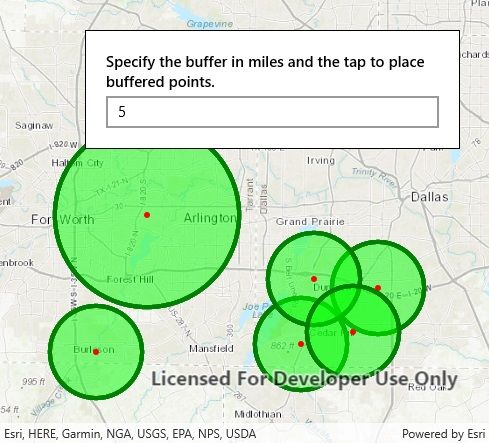
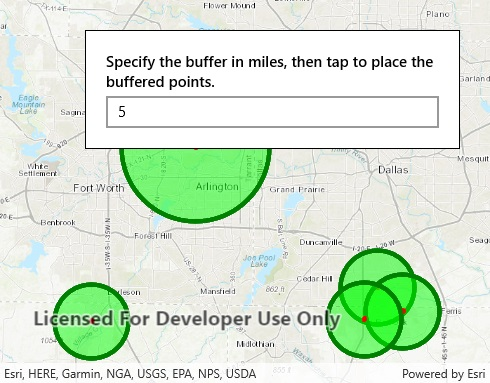
Changes per review

diff --git a/src/UWP/ArcGISRuntime.UWP.Viewer/Samples/GeometryEngine/Buffer/Buffer.xaml b/src/UWP/ArcGISRuntime.UWP.Viewer/Samples/GeometryEngine/Buffer/Buffer.xaml
@@ -9,16 +9,17 @@
                 HorizontalAlignment="Right" VerticalAlignment="Top"
                 Margin="30" Padding="20" Width="375">
             <Grid>
-                <Grid.ColumnDefinitions>
-                    <ColumnDefinition Width="*" />
-                    <ColumnDefinition Width="*" />
-                </Grid.ColumnDefinitions>
-                <TextBlock Text="Specify the buffer in miles and the tap on the map:"
-                           Grid.Column="0" />
+                <Grid.RowDefinitions>
+                    <RowDefinition Height="Auto" />
+                    <RowDefinition Height="Auto" />
+                </Grid.RowDefinitions>
+                <TextBlock Text="Specify the buffer in miles, then tap to place the buffered points."
+                           TextWrapping="Wrap" FontWeight="SemiBold"
+                           Grid.Row="0" />
                 <TextBox x:Name="BufferDistanceMilesTextBox"
-                         Grid.Column="1"
+                         Grid.Row="1"
                          HorizontalAlignment="Stretch" HorizontalTextAlignment="Center"
-                         Margin="5,0,0,0"
+                         Margin="0,5,0,0"
                          Text="10" />
             </Grid>
         </Border>

diff --git a/src/UWP/ArcGISRuntime.UWP.Viewer/Samples/Map/AccessLoadStatus/AccessLoadStatus.xaml b/src/UWP/ArcGISRuntime.UWP.Viewer/Samples/Map/AccessLoadStatus/AccessLoadStatus.xaml
@@ -2,18 +2,13 @@
     x:Class="ArcGISRuntime.UWP.Samples.AccessLoadStatus.AccessLoadStatus"
     xmlns="http://schemas.microsoft.com/winfx/2006/xaml/presentation"
     xmlns:x="http://schemas.microsoft.com/winfx/2006/xaml"
-    xmlns:d="http://schemas.microsoft.com/expression/blend/2008"
-    xmlns:mc="http://schemas.openxmlformats.org/markup-compatibility/2006"
-    xmlns:esriUI="using:Esri.ArcGISRuntime.UI.Controls"
-    mc:Ignorable="d"
-    d:DesignHeight="300"
-    d:DesignWidth="400">
+    xmlns:esriUI="using:Esri.ArcGISRuntime.UI.Controls">
     <Grid>
-        <esriUI:MapView x:Name="myMapView" />
+        <esriUI:MapView x:Name="MyMapView" />
         <Border BorderBrush="Black" BorderThickness="1" Background="White"
                 VerticalAlignment="Top" HorizontalAlignment="Right"
                 Margin="30" Padding="20" Width="300">
-            <TextBlock x:Name="loadStatusTextBlock"
+            <TextBlock x:Name="LoadStatusTextBlock"
                        Text="Map's load status : "
                        TextAlignment="Center" FontWeight="SemiBold" />
         </Border>

diff --git a/src/UWP/ArcGISRuntime.UWP.Viewer/Samples/MapView/DisplayDrawingStatus/DisplayDrawingStatus.xaml b/src/UWP/ArcGISRuntime.UWP.Viewer/Samples/MapView/DisplayDrawingStatus/DisplayDrawingStatus.xaml
@@ -13,11 +13,12 @@
         <Border BorderBrush="Black" BorderThickness="1" Background="White"
                 VerticalAlignment="Top" HorizontalAlignment="Right"
                 Margin="30" Padding="20" Width="300">
-            <StackPanel>
+            <StackPanel Orientation="Horizontal" HorizontalAlignment="Center">
                 <TextBlock x:Name="StatusDisplay"
-                           TextAlignment="Center" FontWeight="SemiBold" />
+                           FontWeight="SemiBold" />
                 <ProgressRing x:Name="ActivityIndicator"
-                              VerticalAlignment="Bottom" HorizontalAlignment="Center"
+                              HorizontalAlignment="Center"
+                              Margin="10,0,0,0"
                               IsActive="True" />
             </StackPanel>
 

diff --git a/src/UWP/ArcGISRuntime.UWP.Viewer/Samples/Data/FeatureLayerQuery/FeatureLayerQuery.xaml b/src/UWP/ArcGISRuntime.UWP.Viewer/Samples/Data/FeatureLayerQuery/FeatureLayerQuery.xaml
@@ -9,11 +9,10 @@
                 HorizontalAlignment="Right" VerticalAlignment="Top"
                 Margin="30" Padding="20" Width="375">
             <StackPanel>
-                <TextBlock Text="Enter a state name to search."
+                <TextBlock Text="Enter a state name and press 'Enter' to search."
                            TextAlignment="Center" FontWeight="SemiBold"
                            Margin="0,0,0,5" />
-                <AutoSuggestBox x:Name="QueryEntry"
-                                Text="New York"
+                <AutoSuggestBox Text="New York"
                                 QueryIcon="Find"
                                 HorizontalAlignment="Stretch"
                                 QuerySubmitted="QueryEntry_QuerySubmitted" />

diff --git a/src/UWP/ArcGISRuntime.UWP.Viewer/Samples/Location/DisplayDeviceLocation/DisplayDeviceLocation.xaml b/src/UWP/ArcGISRuntime.UWP.Viewer/Samples/Location/DisplayDeviceLocation/DisplayDeviceLocation.xaml
@@ -26,7 +26,7 @@
                            Grid.Row="0" Grid.Column="0" Grid.ColumnSpan="2"
                            Margin="0,0,0,5"
                            TextAlignment="Center" FontWeight="SemiBold" />
-                <ComboBox x:Name="locationModes"
+                <ComboBox x:Name="LocationModes"
                           Grid.Row="1" Grid.Column="0" Grid.ColumnSpan="2"
                           HorizontalAlignment="Stretch"
                           SelectionChanged="LocationModes_SelectionChanged"/>

diff --git a/src/UWP/ArcGISRuntime.UWP.Viewer/Samples/Location/DisplayDeviceLocation/DisplayDeviceLocation.xaml.cs b/src/UWP/ArcGISRuntime.UWP.Viewer/Samples/Location/DisplayDeviceLocation/DisplayDeviceLocation.xaml.cs
@@ -44,8 +44,8 @@ namespace ArcGISRuntime.UWP.Samples.DisplayDeviceLocation
             MyMapView.Map = new Map(Basemap.CreateTopographic());
 
             // Populate the list of options and select a default.
-            locationModes.ItemsSource = _navigationTypes;
-            locationModes.SelectedIndex = 0;
+            LocationModes.ItemsSource = _navigationTypes;
+            LocationModes.SelectedIndex = 0;
         }
 
         private void OnStopClicked(object sender, RoutedEventArgs e)
@@ -63,7 +63,7 @@ namespace ArcGISRuntime.UWP.Samples.DisplayDeviceLocation
         private void LocationModes_SelectionChanged(object sender, SelectionChangedEventArgs e)
         {
             // Set the autopan mode.
-            switch (locationModes.SelectedValue.ToString())
+            switch (LocationModes.SelectedValue.ToString())
             {
                 case "Off":
                     // Starts location display with auto pan mode set to Off

diff --git a/src/UWP/ArcGISRuntime.UWP.Viewer/Samples/Map/AccessLoadStatus/AccessLoadStatus.xaml.cs b/src/UWP/ArcGISRuntime.UWP.Viewer/Samples/Map/AccessLoadStatus/AccessLoadStatus.xaml.cs
@@ -38,7 +38,7 @@ namespace ArcGISRuntime.UWP.Samples.AccessLoadStatus
             myMap.LoadStatusChanged += OnMapsLoadStatusChanged;
 
             // Provide used Map to the MapView
-            myMapView.Map = myMap;
+            MyMapView.Map = myMap;
         }
 
         async private void OnMapsLoadStatusChanged(object sender, LoadStatusEventArgs e)
@@ -46,7 +46,7 @@ namespace ArcGISRuntime.UWP.Samples.AccessLoadStatus
             // Update the load status information
             await Dispatcher.RunAsync(CoreDispatcherPriority.Normal, () =>
                  {
-                     loadStatusTextBlock.Text = string.Format("Map's load status : {0}", e.Status.ToString());
+                     LoadStatusTextBlock.Text = string.Format("Map's load status : {0}", e.Status.ToString());
                  });
         }
     }

diff --git a/src/UWP/ArcGISRuntime.UWP.Viewer/Samples/Data/FeatureLayerQuery/FeatureLayerQuery.xaml.cs b/src/UWP/ArcGISRuntime.UWP.Viewer/Samples/Data/FeatureLayerQuery/FeatureLayerQuery.xaml.cs
@@ -117,7 +117,7 @@ namespace ArcGISRuntime.UWP.Samples.FeatureLayerQuery
             }
             catch (Exception ex)
             {
-                var message = new MessageDialog("Sample error: " + ex.ToString(), "An error occurred");
+                var message = new MessageDialog("Sample error: " + ex, "An error occurred");
                 await message.ShowAsync();
             }
         }
@@ -130,7 +130,7 @@ namespace ArcGISRuntime.UWP.Samples.FeatureLayerQuery
                 _featureLayer.ClearSelection();
 
                 // Begin query process 
-                await QueryStateFeature(QueryEntry.Text);
+                await QueryStateFeature(args.QueryText);
             }
             catch (Exception ex)
             {
